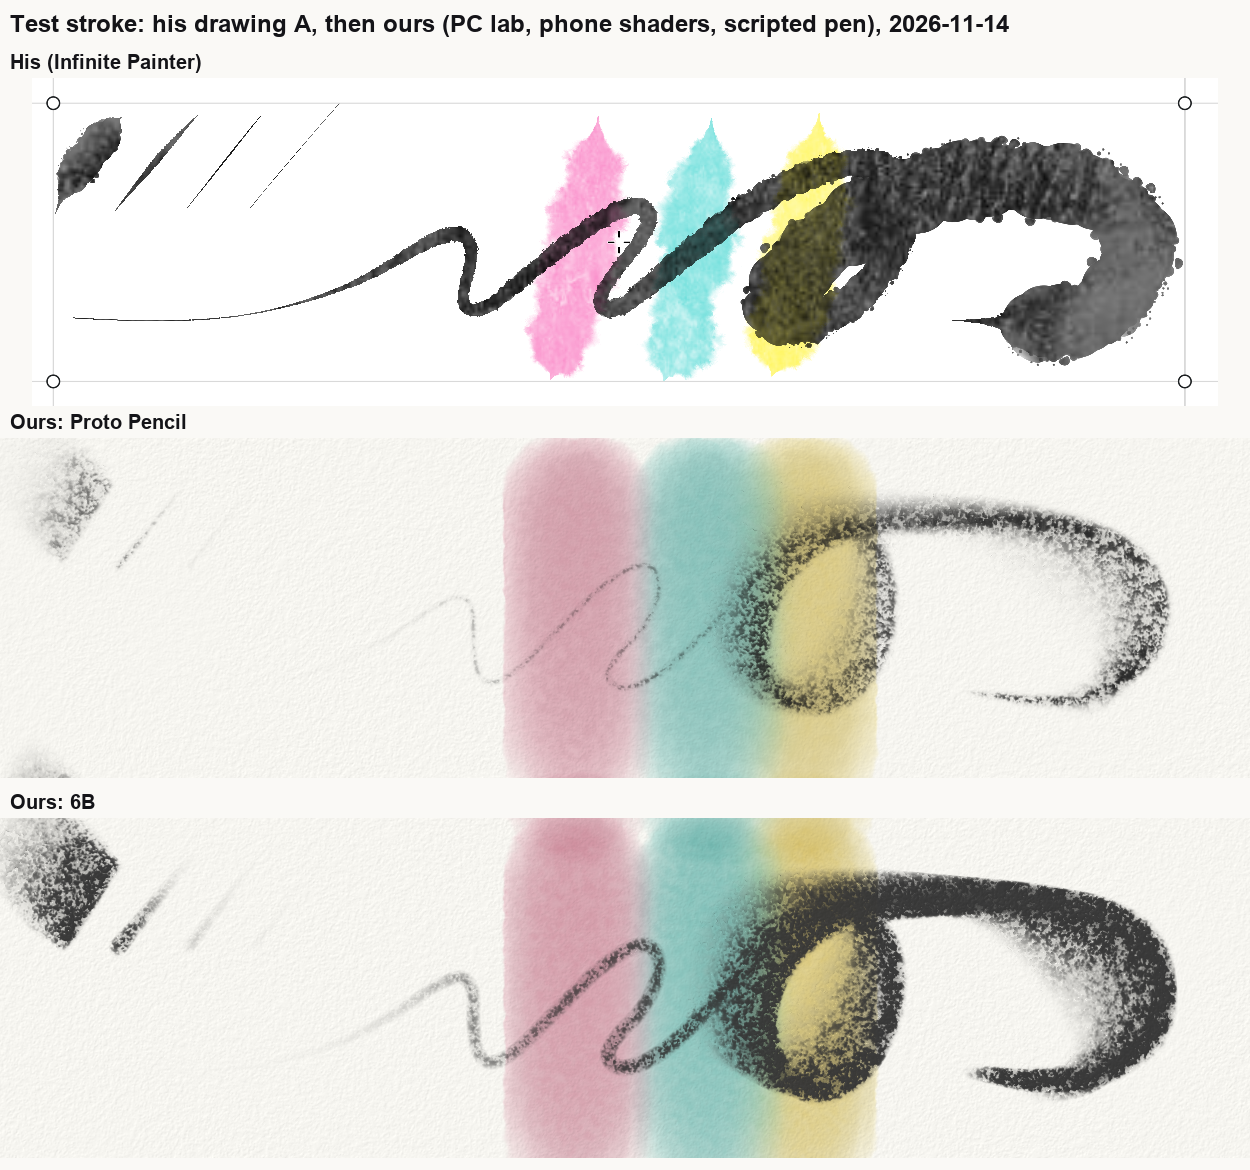
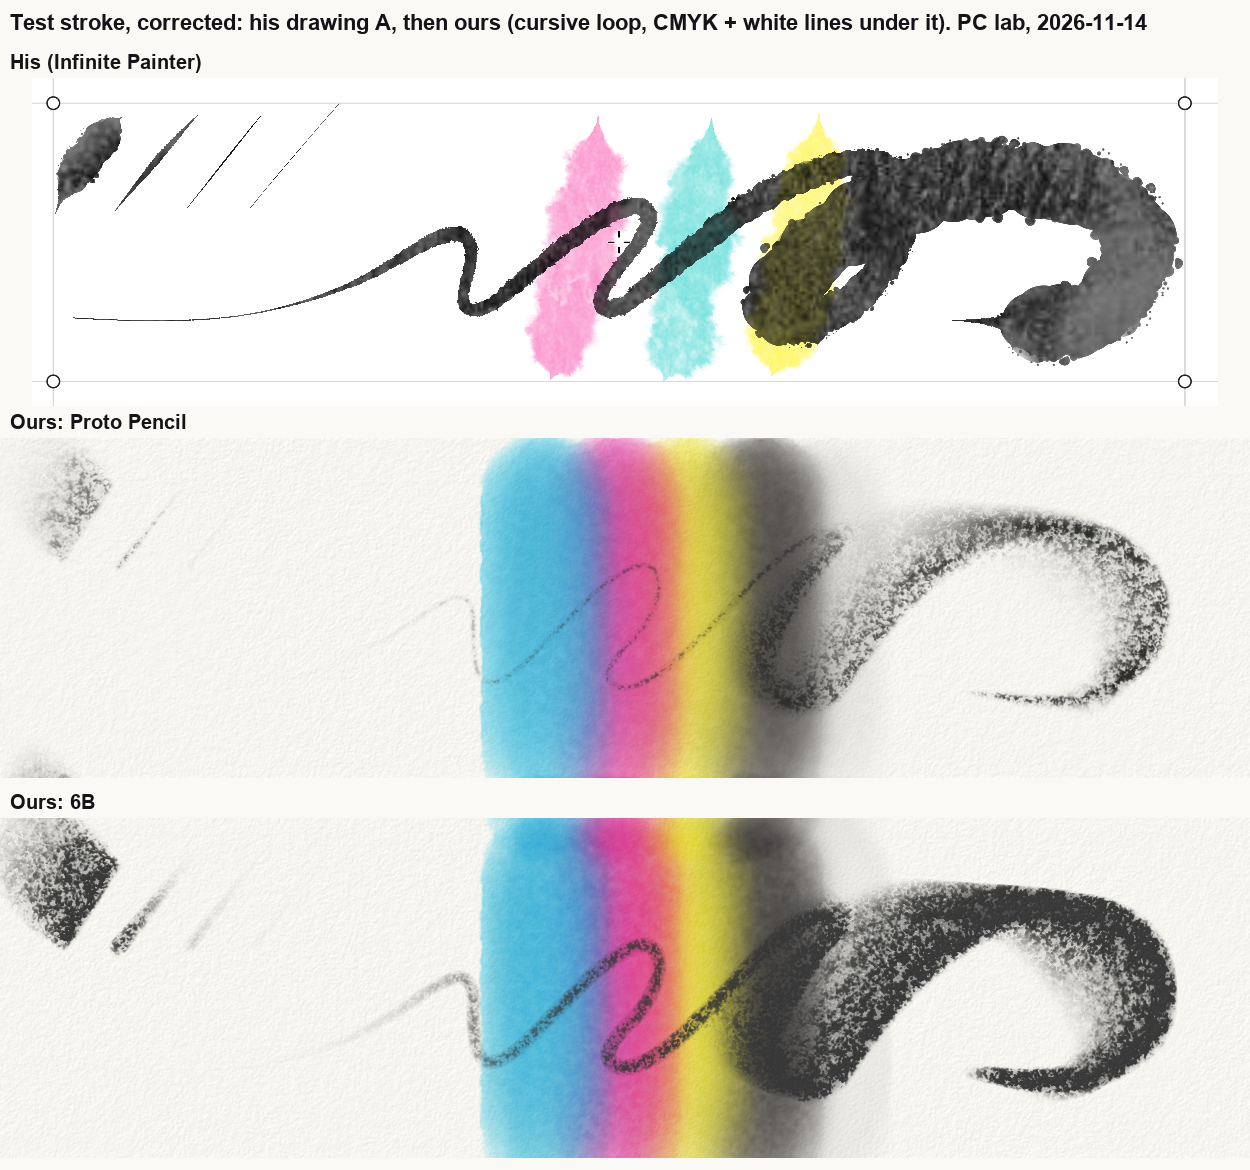
Test stroke: cyan, magenta, yellow, black and white lines under it (BRUSH-UI K.5); restores the swoosh-only part and the stroke version (now 4) that the previous commit dropped; lab sheet repaired

Changed region(s): [[0.3744, 0.3692, 0.8736, 1.0], [0.0, 0.0, 0.9048, 0.0308]]

diff --git a/joybrush/lab/media/js/tests.js b/joybrush/lab/media/js/tests.js
@@ -56,7 +56,7 @@ const zig = (x0, x1, y, amp, n) => u => {
 // straight lines at the top left. The box is [x0, yTop] (doc px, y UP here) w wide and h tall. Tilt: the app's radians
 // over the pen's reach (68 degrees) are the lab's 0..90; the lean is up and to the left, swinging round through the loop.
 const TEST_PATH = [[0.0177, 0.7734, 0.02, 0.10], [0.0779, 0.7770, 0.02, 0.10], [0.1398, 0.7734, 0.03, 0.12], [0.2018, 0.7410, 0.06, 0.16], [0.2549, 0.6763, 0.12, 0.22], [0.2991, 0.5863, 0.20, 0.28], [0.3345, 0.4964, 0.28, 0.34], [0.3566, 0.4640, 0.32, 0.38], [0.3673, 0.5072, 0.34, 0.42], [0.3681, 0.6115, 0.34, 0.45], [0.3717, 0.7086, 0.34, 0.45], [0.3832, 0.7482, 0.34, 0.42], [0.4053, 0.7086, 0.36, 0.40], [0.4407, 0.5755, 0.38, 0.40], [0.4761, 0.4424, 0.40, 0.42], [0.5071, 0.3633, 0.42, 0.46], [0.5248, 0.3705, 0.42, 0.52], [0.5292, 0.4496, 0.42, 0.58], [0.5159, 0.5647, 0.42, 0.62], [0.4938, 0.6583, 0.42, 0.62], [0.4850, 0.7302, 0.44, 0.58], [0.5009, 0.7662, 0.46, 0.54], [0.5336, 0.7086, 0.48, 0.52], [0.5779, 0.5504, 0.50, 0.55], [0.6195, 0.3849, 0.54, 0.62], [0.6531, 0.2842, 0.60, 0.70], [0.6796, 0.2626, 0.63, 0.74], [0.6885, 0.2914, 0.66, 0.78], [0.6708, 0.3633, 0.69, 0.82], [0.6460, 0.5072, 0.72, 0.86], [0.6283, 0.6583, 0.75, 0.90], [0.6336, 0.7806, 0.78, 0.94], [0.6549, 0.8381, 0.81, 0.97], [0.6814, 0.8022, 0.84, 1.00], [0.7044, 0.6835, 0.87, 1.03], [0.7310, 0.5504, 0.90, 1.06], [0.7664, 0.4137, 0.93, 1.09], [0.8053, 0.3058, 0.96, 1.12], [0.8522, 0.2338, 1.00, 1.15], [0.9097, 0.2410, 1.00, 1.15], [0.9504, 0.3345, 1.00, 1.12], [0.9681, 0.4712, 0.98, 1.05], [0.9628, 0.6223, 0.94, 0.95], [0.9398, 0.7230, 0.90, 0.85], [0.9053, 0.7950, 0.86, 0.75], [0.8566, 0.8094, 0.82, 0.65], [0.8212, 0.7914, 0.55, 0.55], [0.7965, 0.7806, 0.12, 0.50]];
-const TEST_STRIPES = [[0.458, 0.036, [0.871, 0.561, 0.651]], [0.572, 0.036, [0.435, 0.765, 0.745]], [0.657, 0.034, [0.914, 0.812, 0.431]]];
+const TEST_STRIPES = [[0.430, 0.025, [0, 0.682, 0.937]], [0.492, 0.025, [0.925, 0, 0.549]], [0.554, 0.025, [1, 0.949, 0]], [0.616, 0.025, [0.137, 0.122, 0.125]], [0.678, 0.025, [1, 1, 1]]];  // cyan, magenta, yellow, black, white (BRUSH-UI K.5)
 const testTilt = rad => Math.min(90, rad * 180 / Math.PI / 68 * 90) * D2R;
 function testStroke(tool, x0, yTop, w, h, pitch = 3) {
   const cr = (a, b, c, d, t) => 0.5 * (2 * b + (c - a) * t + (2 * a - 5 * b + 4 * c - d) * t * t + (3 * b - a - 3 * c + d) * t * t * t);
@@ -81,7 +81,7 @@ function testStroke(tool, x0, yTop, w, h, pitch = 3) {
 // A stripe as strokes of the brush itself: three passes down the band, firm and plain.
 function testStripe(tool, stripe, x0, yTop, w, h) {
   const out = [];
-  for (const dx of [-0.5, 0, 0.5]) {
+  for (const dx of [-0.3, 0.3]) {
     const n = 40, samples = [];
     for (let i = 0; i < n; i++) { const k = i / (n - 1); samples.push({ x: x0 + w * (stripe[0] + stripe[1] * dx), y: yTop - h * (0.07 + 0.9 * k), p: 0.7, tilt: 26 * D2R, az: 135 * D2R, t: i * 6 }); }
     out.push({ tool, samples, color: stripe[2] });
@@ -106,15 +106,16 @@ export const SHEETS = {
       names.forEach((n, i) => {
         const x0 = 50, yTop = H - i * ch - 20, w = 1150, h = ch - 40;
         const as = st => (kind === 'dry' ? st : { ...st, kind, tool: n, wetness: 3, color: st.color || INK });
-        for (const st of TEST_STRIPES) for (const pass of testStripe(n, st, x0, yTop, w, h)) s.push(as(pass));
-        if (kind === 'wet') s.push({ wait: 3 });
+        // The stripes are paint already on the paper (BRUSH-UI K.5): watercolour under pencils and watercolour, oil under oils.
+        for (const st of TEST_STRIPES) for (const pass of testStripe(n, st, x0, yTop, w, h))
+          s.push(kind === 'paste' ? { ...pass, kind: 'paste', tool: 'Oil flat' } : { ...pass, kind: 'wet', tool: 'Round', wetness: 1 });
+        if (kind !== 'paste') s.push({ wait: 6 });
         for (const m of testMarks(n, x0, yTop, w, h)) s.push(as(m));
         s.push(as(testStroke(n, x0, yTop, w, h)));
       });
       if (kind === 'wet') s.push({ wait: Number(q.get('dryS') || 15) });
       return s;
     },
-  },
   },
   // Wetness (owner, 2026-10-07: Expresii's drop and napkin): the all-round brush at dry, damp, wet, loaded and
   // runny, left to right; then the paper tilted toward the bottom for ?tiltS= seconds (runny paint should run).

diff --git a/joybrush/core/src/commonMain/kotlin/cc/joycreator/joybrush/core/brush/TestStroke.kt b/joybrush/core/src/commonMain/kotlin/cc/joycreator/joybrush/core/brush/TestStroke.kt
@@ -23,6 +23,9 @@ import kotlin.math.roundToInt
  *    pressure with the pen laid over, and a hook back to the left that ends in a quick flick: a sudden lift, not a fade.
  */
 object TestStroke {
+    /** Bumped whenever the stroke, its marks or its stripes change: stored brush previews drawn with an older one are stale. */
+    const val VERSION = 4
+
     /** One traced point of the curve: [x], [y] as shares of the box (0..1), the pen's [pressure] and [tilt] (radians from upright) there. */
     class P(val x: Float, val y: Float, val pressure: Float, val tilt: Float)
 
@@ -82,13 +85,16 @@ object TestStroke {
     class Stripe(val x: Float, val half: Float, val y0: Float, val y1: Float, val argb: Int)
 
     /**
-     * Three bands where he drew them (pink, cyan, yellow in his drawing), in softer colours that sit together: a dusty
-     * rose, a sea teal, a straw yellow. The screens lane's design page may choose others; only these values change.
+     * The colour lines the curve crosses, painted first, underneath it (the owner's ruling, BRUSH-UI section K.5): the print
+     * colours cyan, magenta, yellow, black and white, close together with a little space between each, where his three
+     * bands were, so each shows what the brush does with it (pick-up, smear, blur, cover).
      */
     val STRIPES: List<Stripe> = listOf(
-        Stripe(0.458f, 0.036f, 0.07f, 0.97f, 0xFFDE8FA6.toInt()),
-        Stripe(0.572f, 0.036f, 0.07f, 0.97f, 0xFF6FC3BE.toInt()),
-        Stripe(0.657f, 0.034f, 0.07f, 0.97f, 0xFFE9CF6E.toInt()),
+        Stripe(0.430f, 0.025f, 0.07f, 0.97f, 0xFF00AEEF.toInt()),   // cyan
+        Stripe(0.492f, 0.025f, 0.07f, 0.97f, 0xFFEC008C.toInt()),   // magenta
+        Stripe(0.554f, 0.025f, 0.07f, 0.97f, 0xFFFFF200.toInt()),   // yellow
+        Stripe(0.616f, 0.025f, 0.07f, 0.97f, 0xFF231F20.toInt()),   // black
+        Stripe(0.678f, 0.025f, 0.07f, 0.97f, 0xFFFFFFFF.toInt()),   // white
     )
 
     /** The pen leans up and to the left as a right hand holds it (radians, 0 = +x, y grows down); it swings round with the hand through the loop and the arc. */
@@ -119,9 +125,25 @@ object TestStroke {
     private fun cr(a: Float, b: Float, c: Float, d: Float, t: Float): Float =
         0.5f * (2f * b + (c - a) * t + (2f * a - 5f * b + 4f * c - d) * t * t + (3f * b - a - 3f * c + d) * t * t * t)
 
+    /** Which part of the curve to draw: all of it, or ([SWOOSH]) the light-to-heavy S-turns alone, for a picture too small for the loop. */
+    enum class Part { WHOLE, SWOOSH }
+
+    /**
+     * The S-turns, from the hairline start through both turns to where the loop begins, stretched to fill the box, its pressure
+     * spread from a feather touch to a full press so a tiny picture (a slider's end, about 40 x 20 dp) still shows the range.
+     */
+    val SWOOSH: List<P> by lazy {
+        val part = PATH.subList(2, 25)
+        val x0 = part.minOf { it.x }; val x1 = part.maxOf { it.x }
+        val y0 = part.minOf { it.y }; val y1 = part.maxOf { it.y }
+        val p0 = part.minOf { it.pressure }; val p1 = part.maxOf { it.pressure }
+        part.map { P((it.x - x0) / (x1 - x0), (it.y - y0) / (y1 - y0), 0.03f + 0.97f * (it.pressure - p0) / (p1 - p0), it.tilt) }
+    }
+
     /** The curve for a [width] x [height] picture and a brush [sizePx] wide, a sample about every [pitchPx] along it. */
-    fun pen(width: Int, height: Int, sizePx: Float, pitchPx: Float = 3f): List<PenSample> {
+    fun pen(width: Int, height: Int, sizePx: Float, pitchPx: Float = 3f, part: Part = Part.WHOLE): List<PenSample> {
         val box = Box(width, height, sizePx)
+        val PATH = if (part == Part.SWOOSH) SWOOSH else PATH
         // A fine polyline through the traced points, with pressure and tilt carried along it.
         val fine = ArrayList<FloatArray>(PATH.size * FINE)
         for (i in 0 until PATH.size - 1) {

diff --git a/joybrush/core/src/commonTest/kotlin/cc/joycreator/joybrush/core/brush/TestStrokeTest.kt b/joybrush/core/src/commonTest/kotlin/cc/joycreator/joybrush/core/brush/TestStrokeTest.kt
@@ -77,8 +77,9 @@ class TestStrokeTest {
     }
 
     @Test fun theCurvePassesThroughEveryStripe() {
-        assertEquals(3, TestStroke.STRIPES.size)
-        assertEquals(3, TestStroke.STRIPES.map { it.argb }.toSet().size)
+        assertEquals(5, TestStroke.STRIPES.size)
+        assertEquals(5, TestStroke.STRIPES.map { it.argb }.toSet().size)
+        assertTrue(TestStroke.STRIPES.zipWithNext().all { (a, b) -> b.x - b.half > a.x + a.half }, "a little space between each")
         for (st in TestStroke.STRIPES) {
             val x0 = inset + (w - 2 * inset) * (st.x - st.half)
             val x1 = inset + (w - 2 * inset) * (st.x + st.half)
